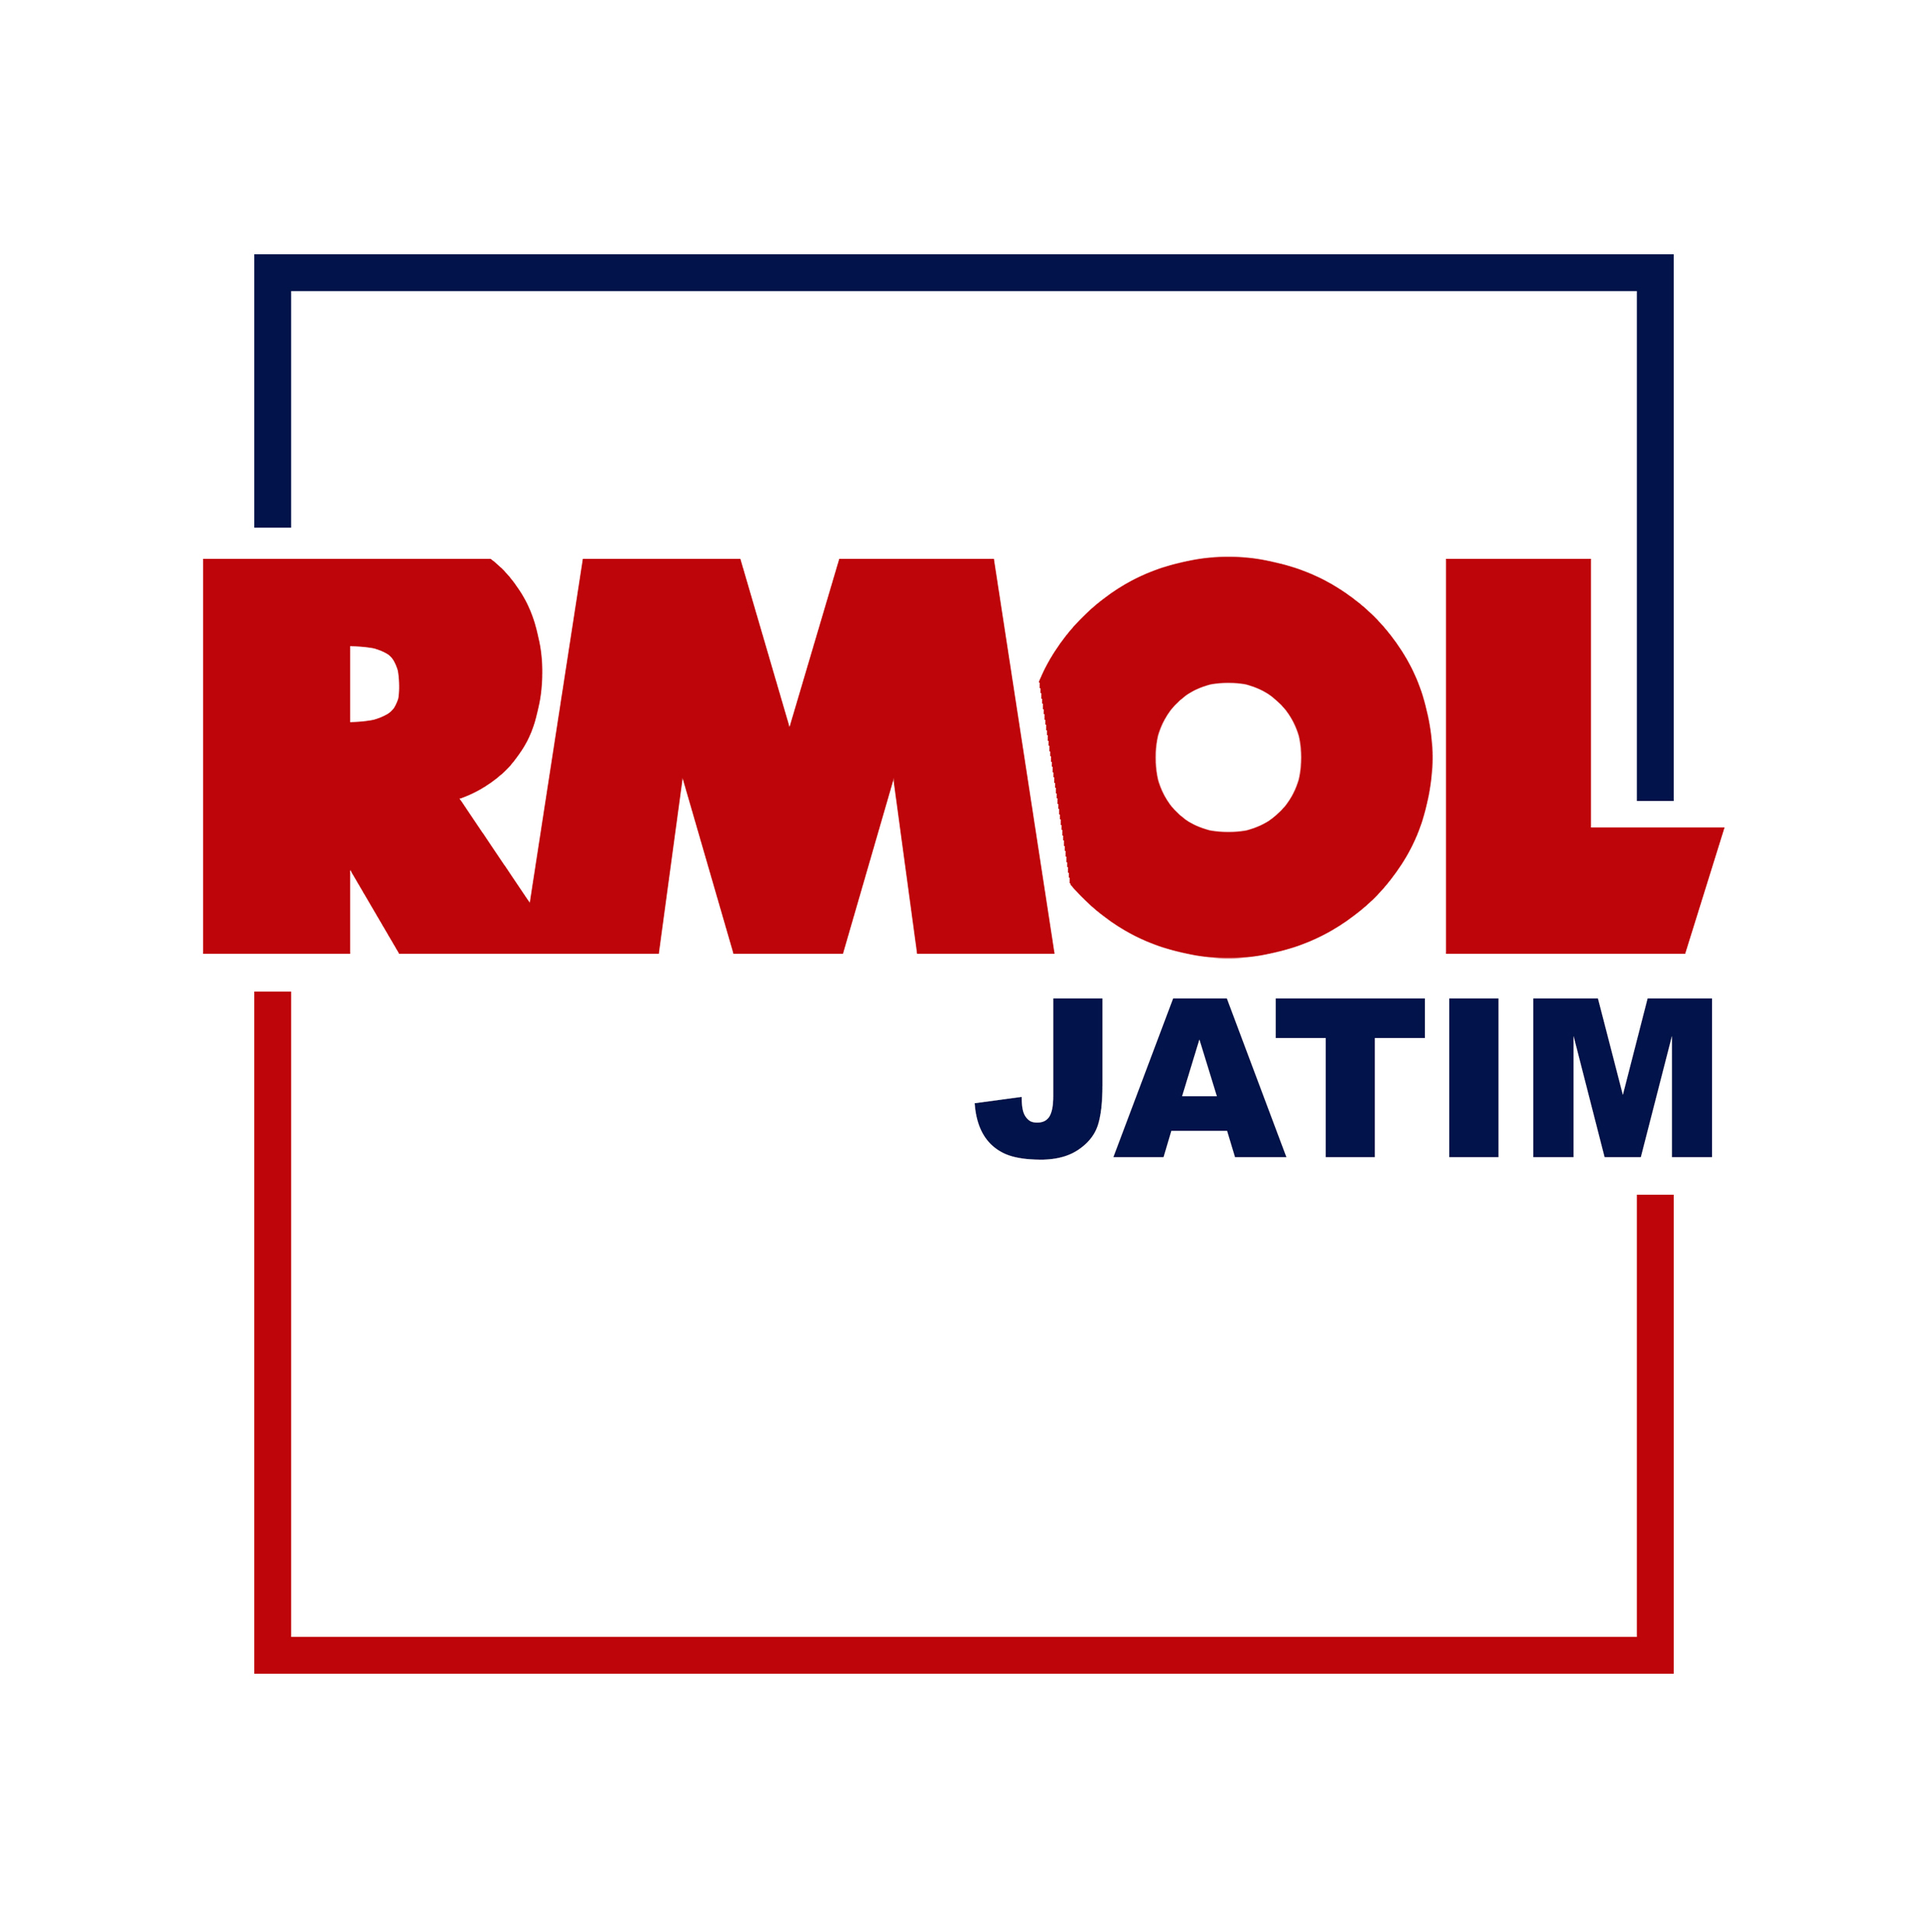
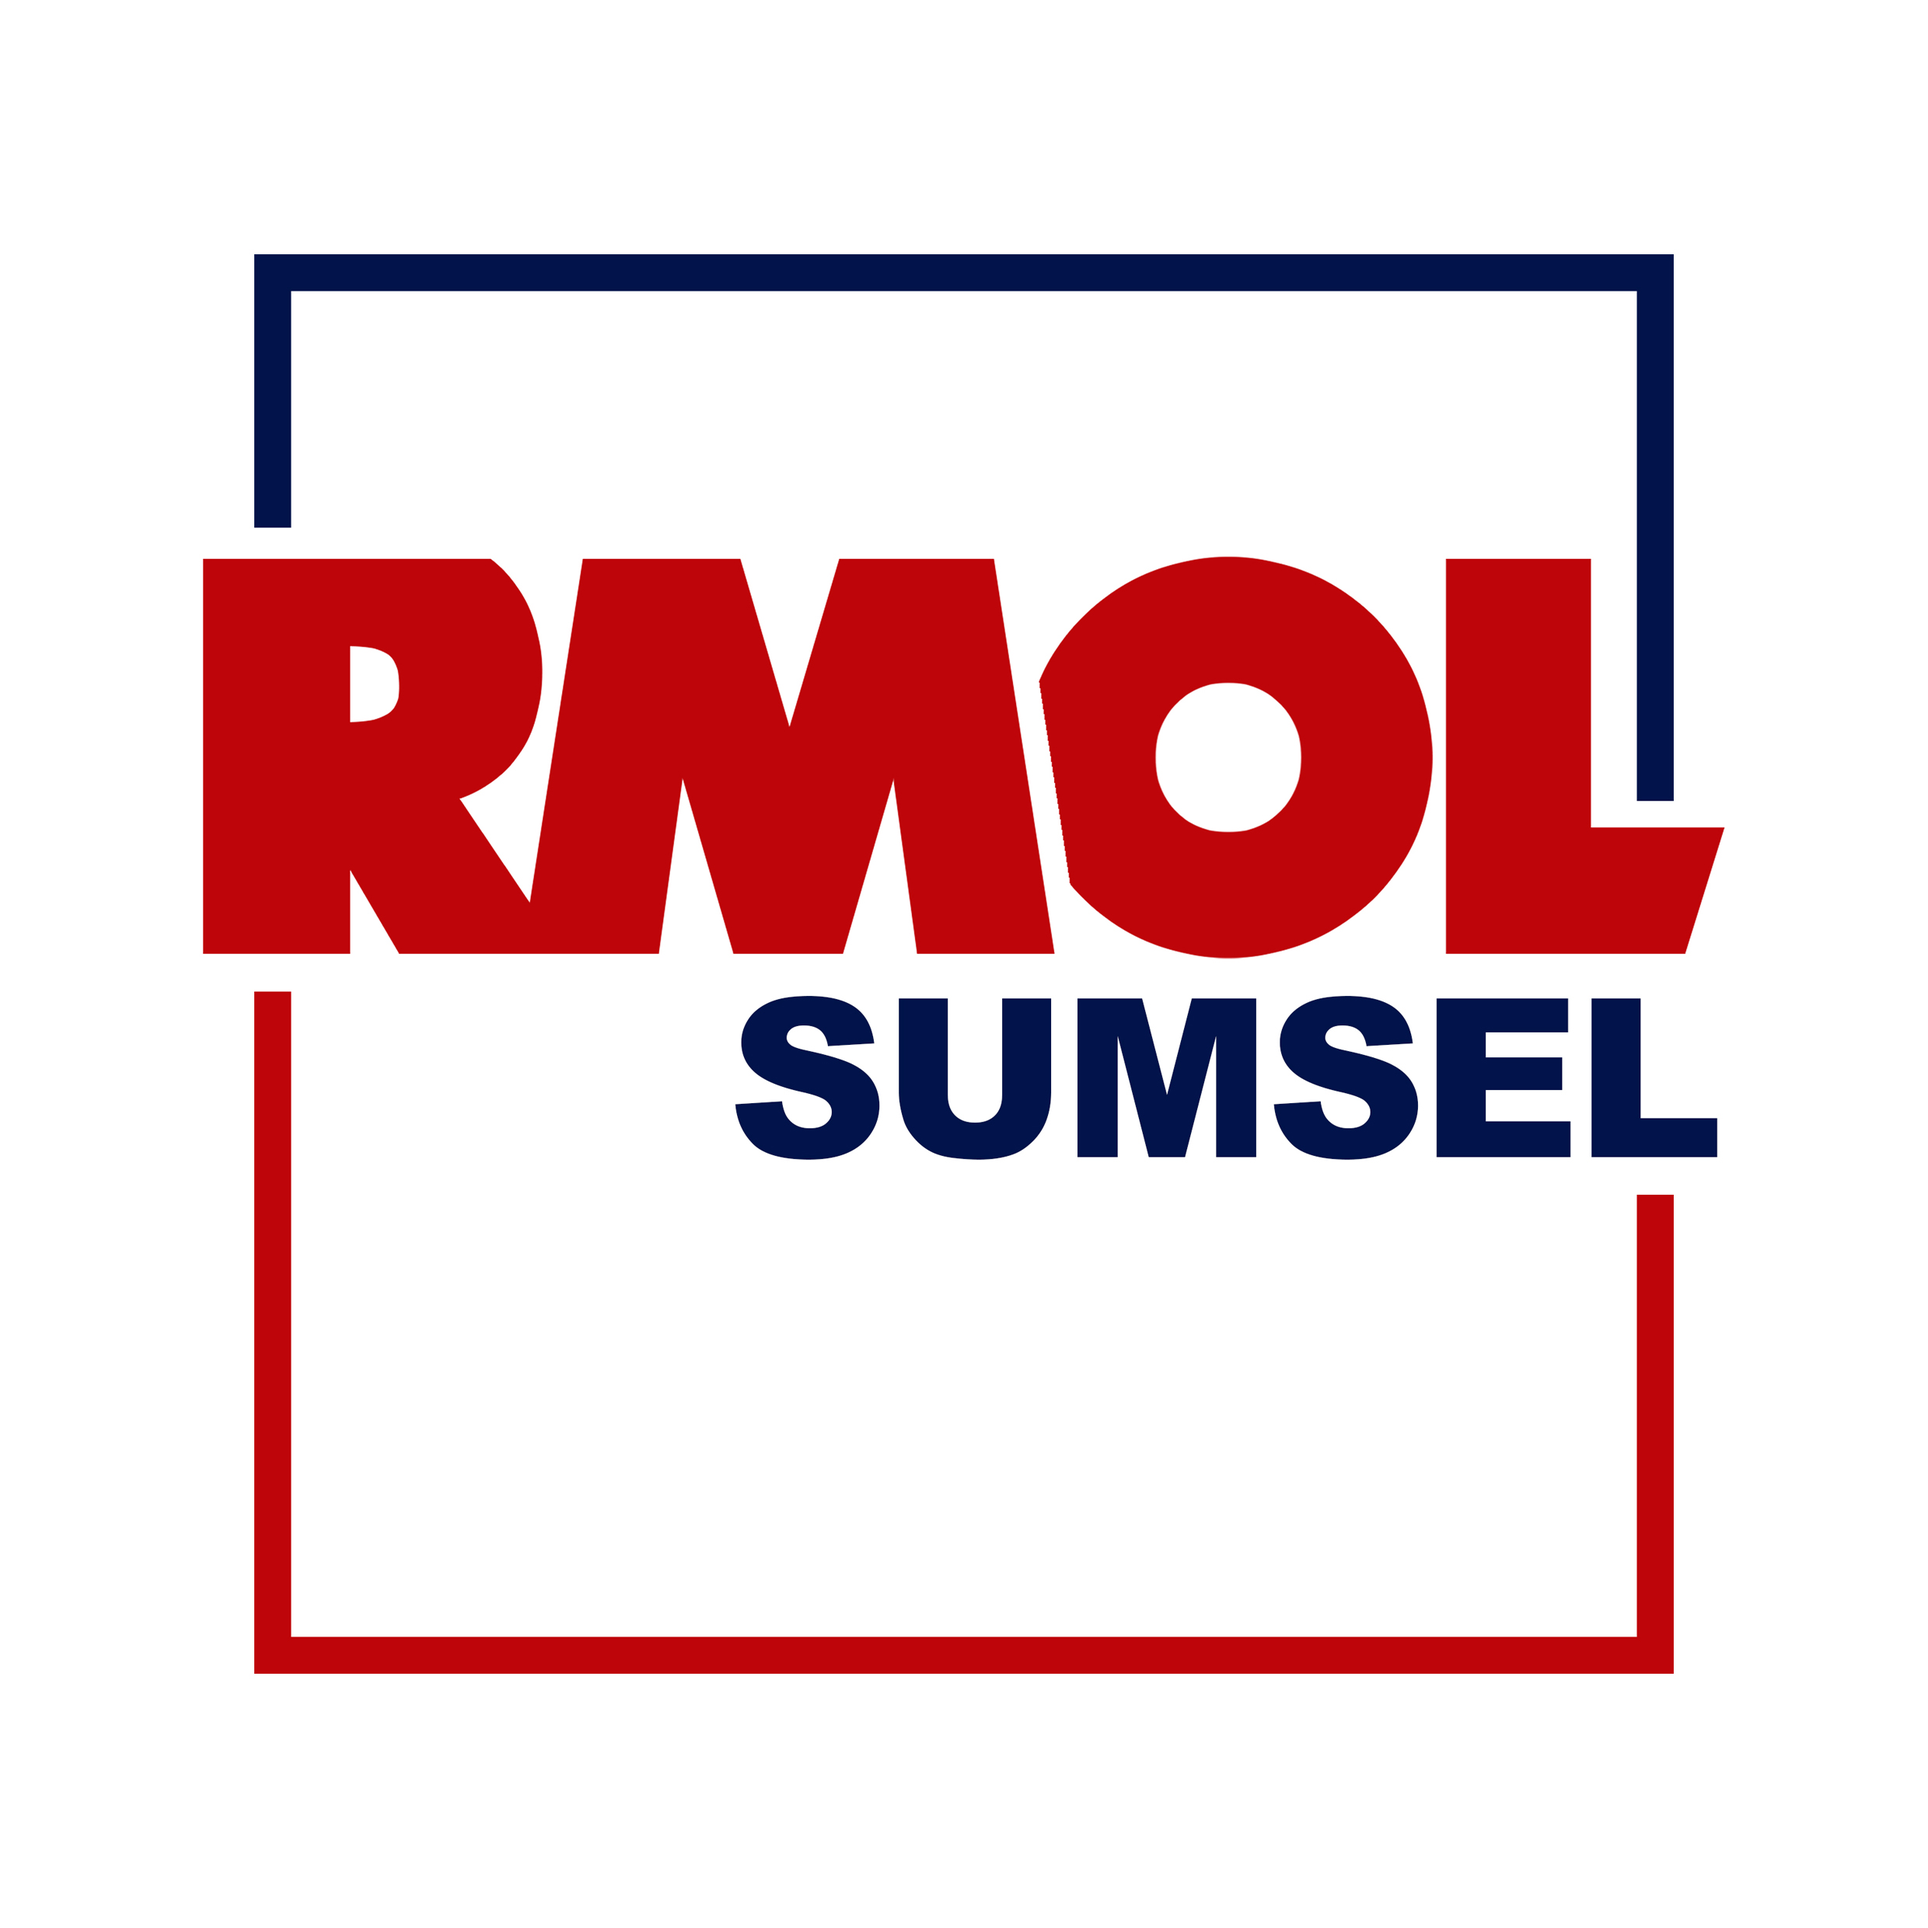
update

Changed region(s): [[0.3726, 0.4968, 0.9004, 0.621]]

diff --git a/lib/ui/page/home/home_page.dart b/lib/ui/page/home/home_page.dart
@@ -213,7 +213,7 @@ class _HomePageState extends State<HomePage> {
                         children: [
                           SvgPicture.asset("assets/upgrade.svg", width: 130),
                           Text(
-                            "Aplikasi RMOL JATIM Telah Update di Playstore!!",
+                            "Aplikasi RMOL SUMSEL Telah Update di Playstore!!",
                             textAlign: TextAlign.center,
                           ),
                           Container(
@@ -317,9 +317,9 @@ class _HomePageState extends State<HomePage> {
     
     var subscribeNotif = prefs.getString("subscribeNotif");
     if(subscribeNotif == null || subscribeNotif == "subscribed")
-      _firebaseMessaging.subscribeToTopic("rmoljatim_public");
+      _firebaseMessaging.subscribeToTopic("rmolsumsel_public");
     else 
-      _firebaseMessaging.unsubscribeFromTopic("rmoljatim_public");
+      _firebaseMessaging.unsubscribeFromTopic("rmolsumsel_public");
     
     _firebaseMessaging.requestNotificationPermissions(
       const IosNotificationSettings(sound: true, badge: true, alert: true, provisional: true)

diff --git a/lib/ui/page/notification_setting.dart b/lib/ui/page/notification_setting.dart
@@ -61,12 +61,12 @@ class _SettingPageState extends State<SettingPage> {
     SharedPreferences prefs = await SharedPreferences.getInstance();
     if(isActive) {
       prefs.setString("subscribeNotif", "subscribed");
-      _firebaseMessaging.subscribeToTopic("rmoljatim_public");
+      _firebaseMessaging.subscribeToTopic("rmolsumsel_public");
       print("subscribed");
     }
     else {
       prefs.setString("subscribeNotif", "unsubscribed");
-      _firebaseMessaging.unsubscribeFromTopic("rmoljatim_public");
+      _firebaseMessaging.unsubscribeFromTopic("rmolsumsel_public");
       print("unsubscribed");
     }
   }

diff --git a/lib/helper/ad_manager.dart b/lib/helper/ad_manager.dart
@@ -4,7 +4,7 @@ class AdManager {
 
   static String get appId {
     if (Platform.isAndroid) {
-      return "ca-app-pub-7349646297780205~5202545354";
+      return "ca-app-pub-7349646297780205~1372285010";
     } else if (Platform.isIOS) {
       return "<YOUR_IOS_ADMOB_APP_ID>";
     } else {
@@ -14,7 +14,7 @@ class AdManager {
 
   static String get bannerAdUnitId {
     if (Platform.isAndroid) {
-      return "ca-app-pub-7349646297780205/8157201129";
+      return "ca-app-pub-7349646297780205/1316460600";
     } else if (Platform.isIOS) {
       return "<YOUR_IOS_BANNER_AD_UNIT_ID>";
     } else {

diff --git a/lib/ui/page/home/about_tab.dart b/lib/ui/page/home/about_tab.dart
@@ -116,7 +116,7 @@ class _AboutTabState extends State<AboutTab> {
                               color: Colors.black87,
                               fontWeight: FontWeight.w600
                             )),
-                            onTap: () => _launchURL("https://www.rmoljatim.id/"),
+                            onTap: () => _launchURL("https://www.rmolsumsel.id/"),
                           ),
                           Divider(),
                           ListTile(

diff --git a/lib/core/api/main_api.dart b/lib/core/api/main_api.dart
@@ -5,7 +5,7 @@ import 'package:shared_preferences/shared_preferences.dart';
 import 'package:dio/dio.dart';
 
 class MainApi {
-  String host = "https://rmoljatim.id/rest/api";
+  String host = "https://rmolsumsel.id/rest/api";
   Dio dio = Dio();
   String get getHost => host;
 

diff --git a/lib/main.dart b/lib/main.dart
@@ -16,7 +16,7 @@ class MyApp extends StatelessWidget {
   @override
   Widget build(BuildContext context) {
     return MaterialApp(
-      title: 'RMOL JATIM',
+      title: 'RMOL SUMSEL',
       routes: {
         '/home': (context) => HomePage(),
       },
